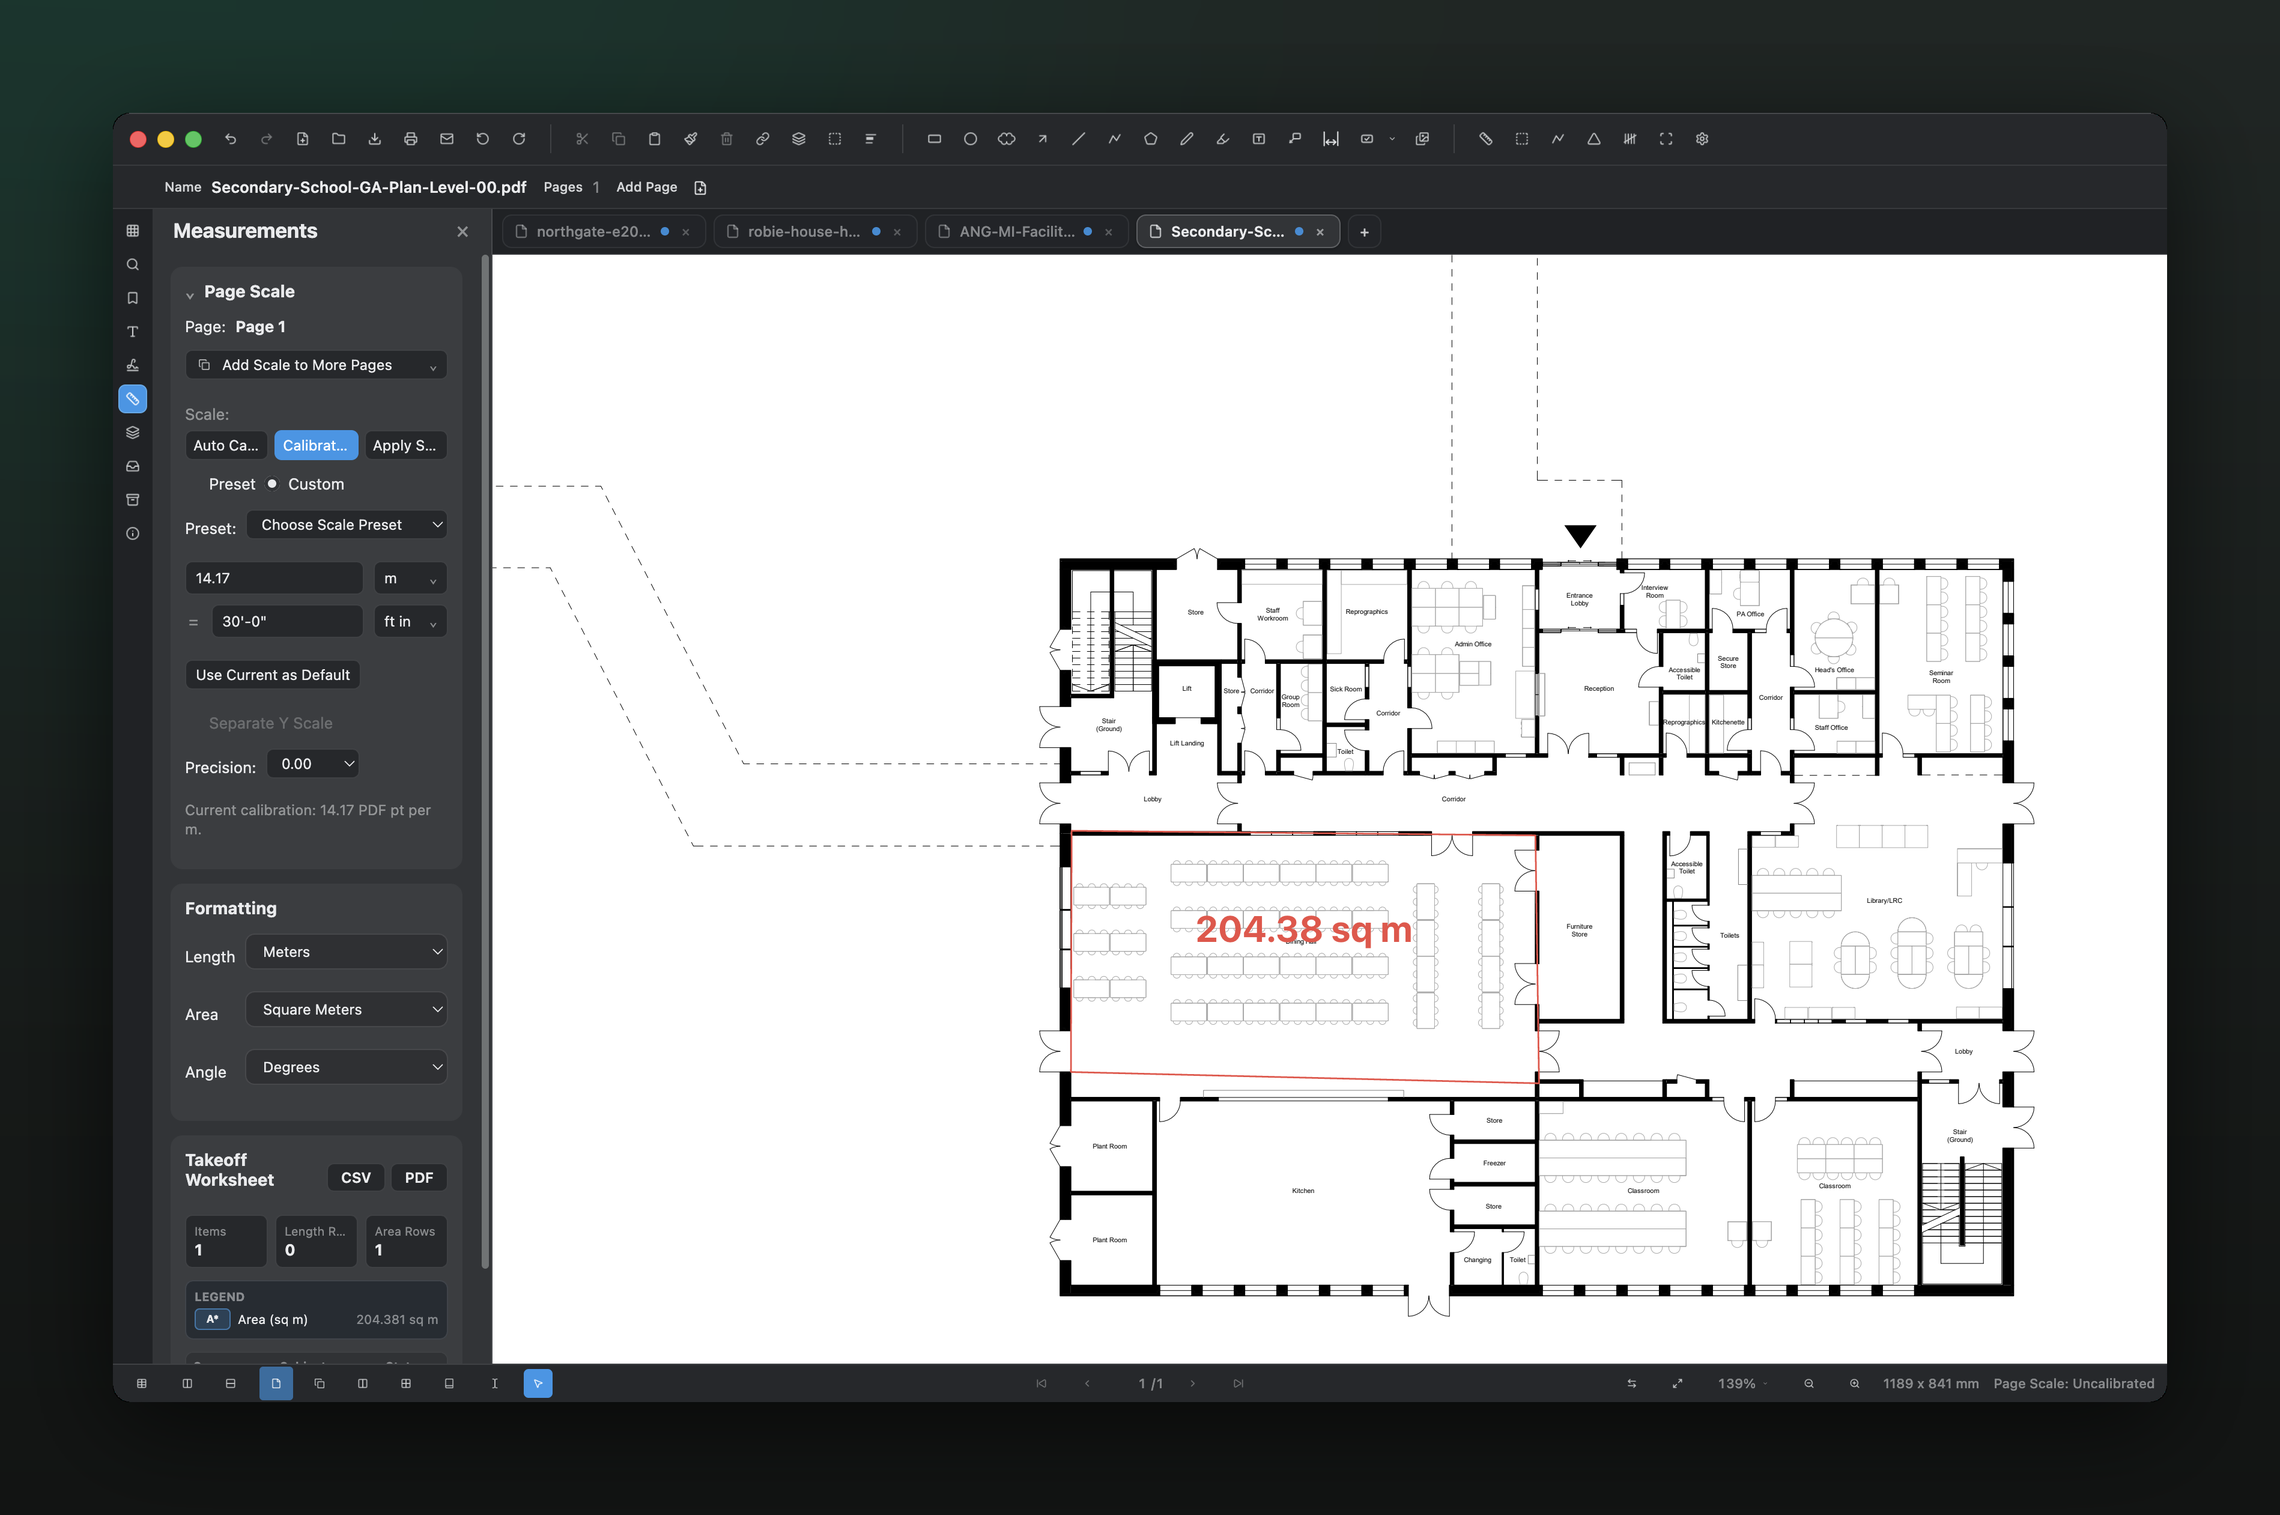
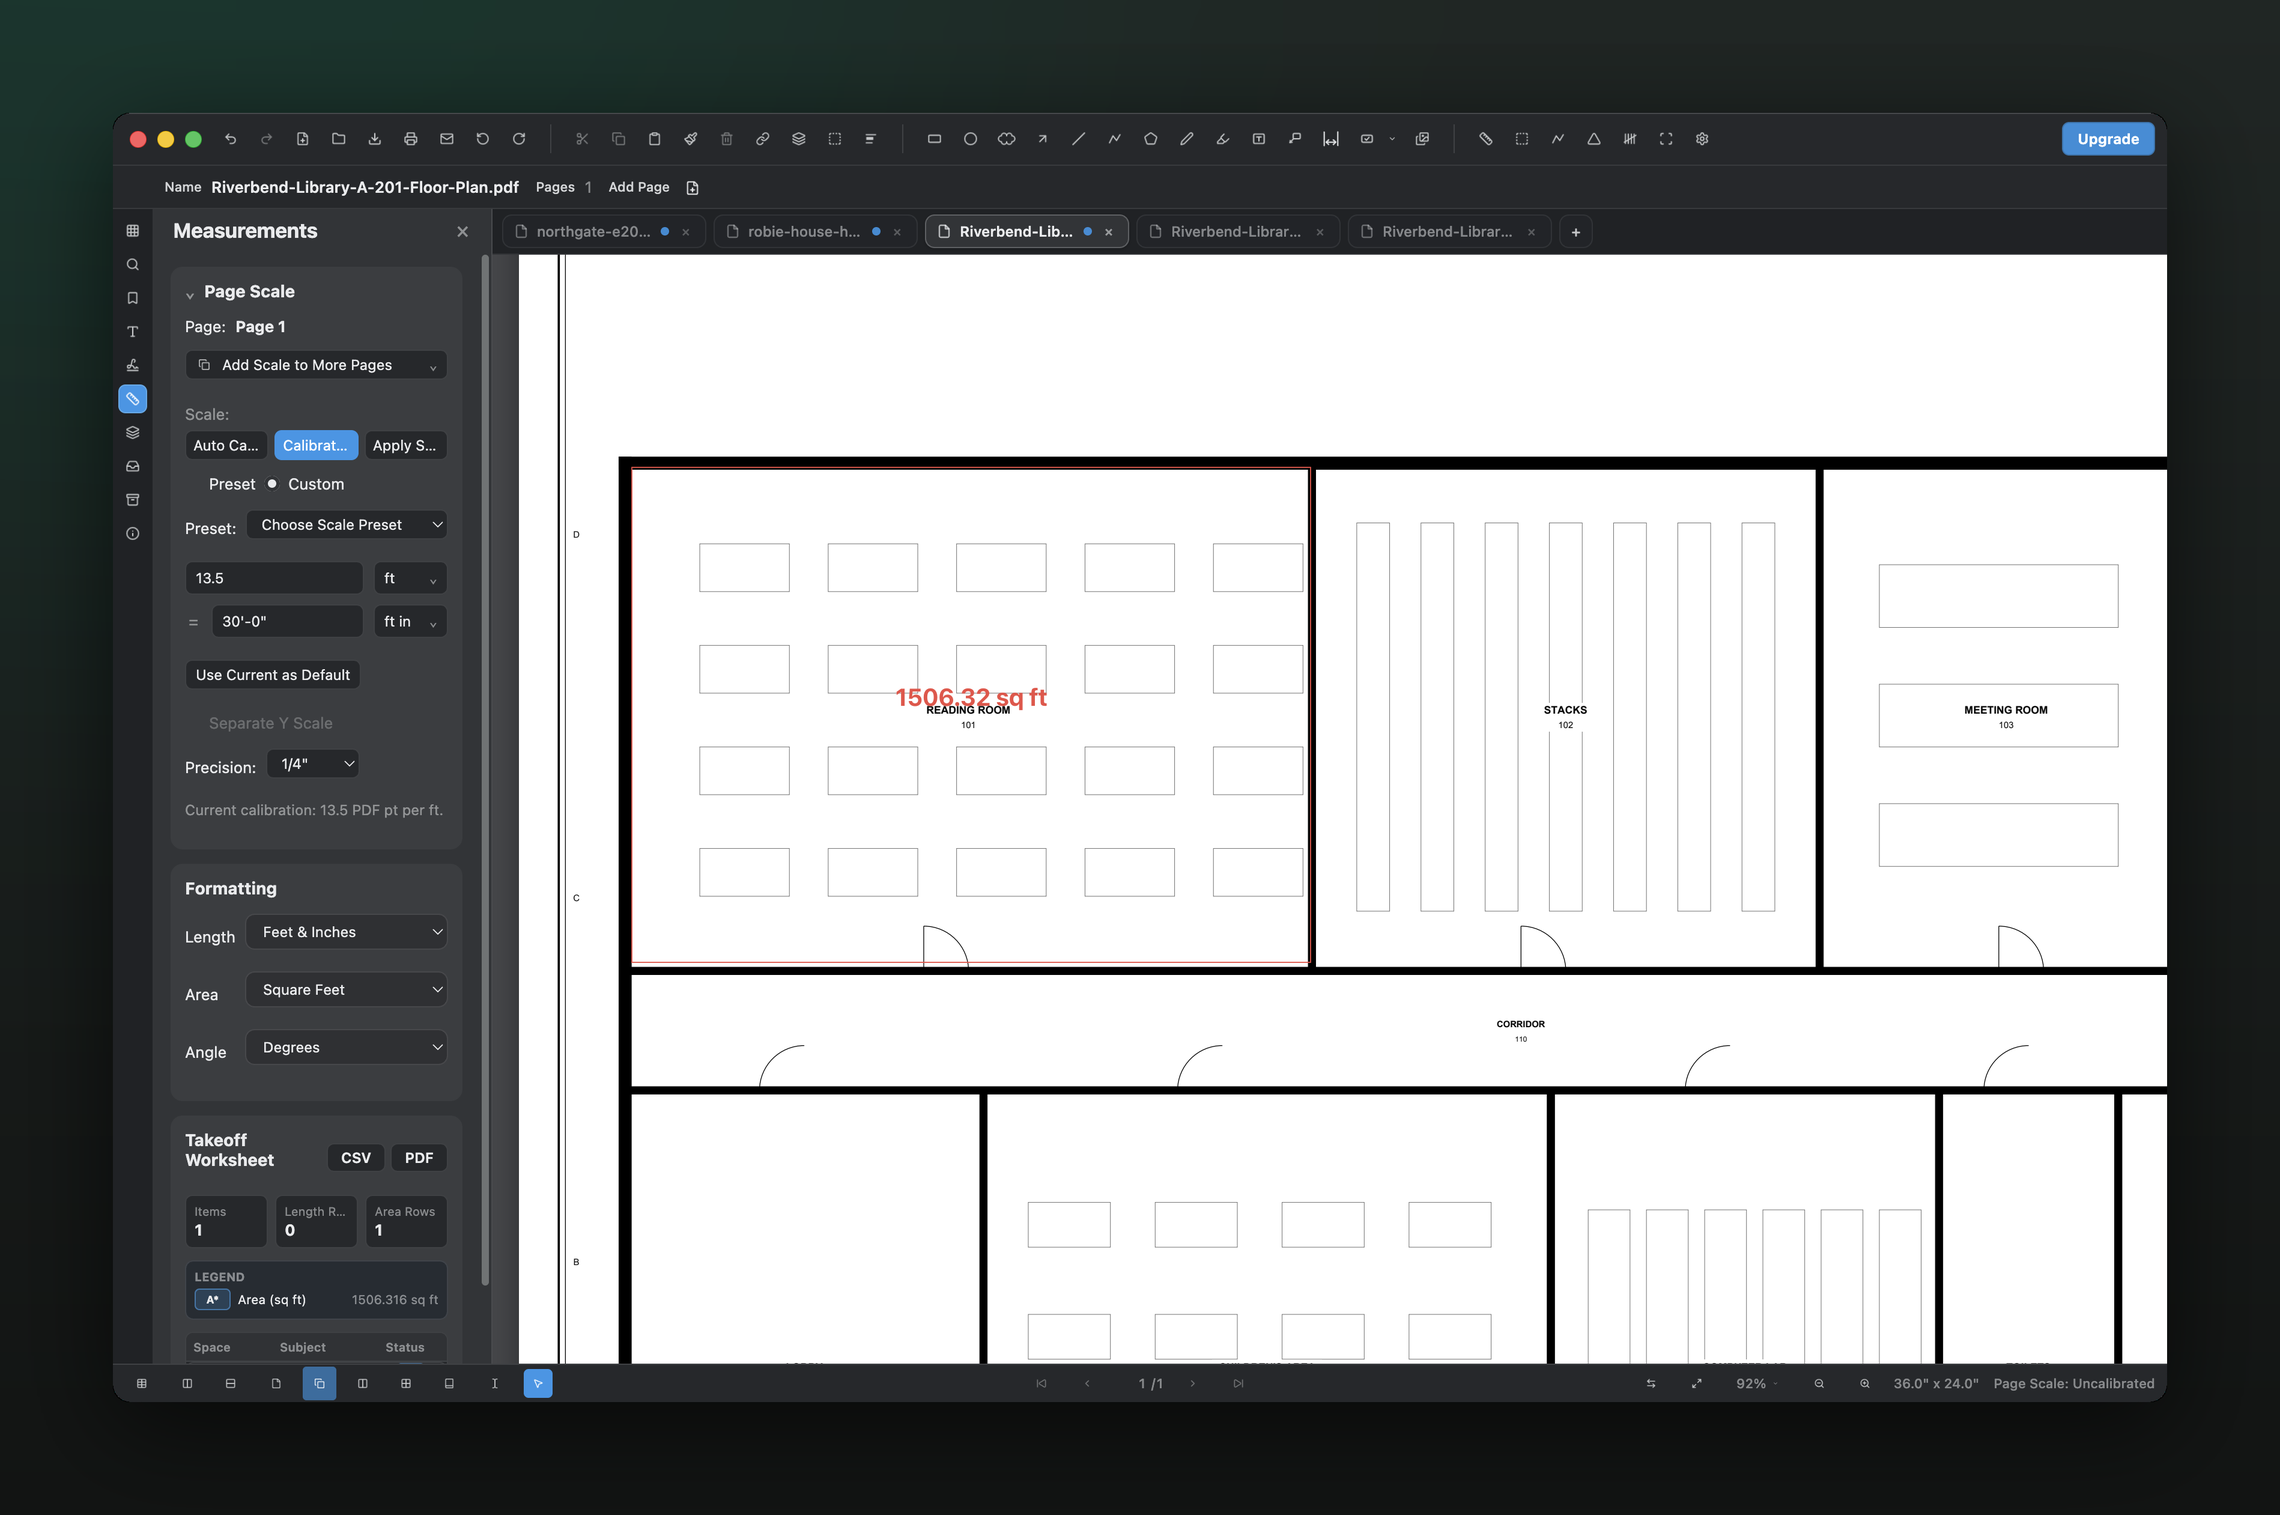
Showcase: shoot on our own sample drawings, drop all third-party credit
Every outside drawing set carried a string. The two federal sets were
defence projects - an Air National Guard facility and a Navy fuel pier -
and the UK school plan was Crown copyright under the Open Government
Licence, which made an attribution line and a link to the licence a
condition of use rather than a courtesy.

Replaced all three with a sample set we own outright: three ARCH-D sheets
of one fictional project, the Riverbend Community Library, generated by
scripts/gen_sample_set.py as vector PDFs.

  A-201  architectural  first floor plan, with a room schedule
  E-101  electrical     lighting plan, 109 fixtures on a regular module
  M-101  mechanical     HVAC plan, ducted from an AHU with VAV branches

The title block names PolyPDF as issuer and marks the sheets as a sample
of a fictional project, so nothing can be mistaken for a real building or
another firm's work. Consequences: no credit lines to carry, no agency
logos or security markings to crop around, no licence to honour, and the
sheets can be redrawn whenever the UI changes.

The room schedule prints clear-area figures derived from the same geometry
the plan is drawn from, so a measurement can be checked against the sheet.
Tracing the reading room by hand returns 1,506 sq ft against the 1,511
printed in the schedule - 0.3% on a hand trace.

Also fixed a real mobile bug found while verifying: the showcase row
images animate in from a horizontal offset that, on a 390px viewport, was
[…]

diff --git a/src/components/Home.js b/src/components/Home.js
@@ -22,42 +22,28 @@ import shotCountCommitted from '../assets/screenshots/shot-count-committed-web.p
 import shotMeasureTakeoff from '../assets/screenshots/shot-measure-takeoff-web.png';
 import shotMarkup from '../assets/screenshots/shot-markup-web.png';
 
-// Real captures of PolyPDF 1.1.3 in dark mode. Each shot works on a DIFFERENT published drawing
-// set and a different discipline — electrical, architectural, mechanical — so each carries its own
-// credit. Attribution belongs to the individual sheet, not to the section.
+// Real captures of PolyPDF 1.1.3 in dark mode, working on PolyPDF's own sample drawing set — three
+// sheets of one fictional project, drawn by scripts/gen_sample_set.py and owned outright.
 //
-// Licence note: the two US federal sets are public domain under 17 U.S.C. 105. The UK school plan
-// is NOT public domain — it is Crown copyright released under the Open Government Licence v3.0,
-// which makes the attribution statement AND a link to the licence a condition of use, so that
-// credit must stay next to the image wherever it appears.
-const OGL_HREF = 'https://www.nationalarchives.gov.uk/doc/open-government-licence/version/3/';
-
+// This replaced three outside drawing sets. Two were defence projects and the third was Crown
+// copyright under the Open Government Licence, which made an attribution line and a licence link a
+// condition of use. Owning the artwork removes all of that: no credits to carry, no agency marks to
+// crop, and the sheets can be redrawn whenever the UI changes.
 const screenshots = [
   {
     image: shotCountCommitted,
-    title: 'Count the fixtures, keep the tally on the drawing',
-    caption: 'Seven light fixtures counted across the maintenance bay, each mark landing on the symbol it belongs to. The takeoff worksheet on the left holds one row per item and a running legend — 7 count beside 1,244.07 sq ft of area — and exports to CSV or PDF.',
-    source:
-      'Sheet E-102, Air National Guard Maintenance & Inspection Facility Standard Design, 23 October 2024 — a work of the US federal government, public domain.'
+    title: 'Counts that keep score for you',
+    caption: 'Drop a marker on each symbol and the takeoff worksheet keeps a running tally per subject, right beside your areas and lengths. Number the marks as you go, then export the whole worksheet to CSV or PDF when it is time to price the job.'
   },
   {
     image: shotMeasureTakeoff,
-    title: 'Area takeoff on a 1:200 school plan',
-    caption: 'The dining hall of a ground-floor general arrangement plan, traced with the Area tool and reading 204.38 m² with the kitchen and library beside it. The page is calibrated to the 1:200 scale printed on the sheet — 14.17 PDF points per metre — so the figure comes from the drawing, not a guess.',
-    source: (
-      <>
-        Secondary school general arrangement plan, level 00, revision C01, 12 January 2026. Contains
-        public sector information licensed under the{' '}
-        <a href={OGL_HREF} target="_blank" rel="noopener noreferrer">Open Government Licence v3.0</a>.
-      </>
-    )
+    title: 'Real units from the PDF you were sent',
+    caption: 'Calibrate to the printed scale once — presets for the common architectural scales, or dial in your own, metric or imperial — then pull areas, lengths and perimeters that land directly on the drawing. No CAD file, no re-drawing, no math on a notepad.'
   },
   {
     image: shotMarkup,
-    title: 'Cloud and callout on a piping plan',
-    caption: 'A revision cloud around one stripping-pump bay of a marine fuel pier enlarged plan, with an RFI callout leadering back to the pump discharge it questions. Set at 22pt so the note still reads once the sheet is printed.',
-    source:
-      'Sheet M-102, Fuel Pier drawings 10009724–10009734, US Department of Defense, November 2020 — a work of the US federal government, public domain.'
+    title: 'Reviews and RFIs, straight on the sheet',
+    caption: 'Revision clouds, leader callouts, stamps and highlights, with text sizing you control — so a note that reads on screen still reads on a printed half-size set. Every markup is tracked in the markups list, so nothing you flag gets lost between review rounds.'
   }
 ];
 
@@ -310,7 +296,7 @@ const Home = () => {
             viewport={{ once: true }}
           >
             <h2>See it on a real sheet</h2>
-            <p>Three drawing sets, three disciplines — electrical, architectural, mechanical — captured from the shipping app rather than mocked up. Each sheet is a published drawing credited under its own shot; crediting a source does not mean it endorses PolyPDF.</p>
+            <p>Counting, measuring and drawing review — the work you actually do all day — across three disciplines of one project. Captured from the shipping app, not mocked up.</p>
           </motion.div>
 
           {/* Lead shot gets the full-width stage; the rest alternate text/image so the section
@@ -328,7 +314,6 @@ const Home = () => {
             <figcaption>
               <h3>{screenshots[0].title}</h3>
               <p>{screenshots[0].caption}</p>
-              <p className="shot-source">{screenshots[0].source}</p>
             </figcaption>
           </motion.figure>
 
@@ -346,7 +331,6 @@ const Home = () => {
                   <span className="showcase-index">0{index + 2}</span>
                   <h3>{shot.title}</h3>
                   <p>{shot.caption}</p>
-                  <p className="shot-source">{shot.source}</p>
                 </figcaption>
                 <motion.div
                   className="shot-plate"

diff --git a/src/App.css b/src/App.css
@@ -1235,6 +1235,13 @@ body {
   gap: 72px;
 }
 
+/* The row images slide in from a horizontal offset. On a phone that offset is wider than the
+   margin beside them, so mid-animation it pushed the document ~8px wide and the whole page could
+   be scrolled sideways. Clip (not hidden) contains it without creating a scroll container. */
+.showcase {
+  overflow-x: clip;
+}
+
 .showcase-row {
   display: grid;
   grid-template-columns: minmax(240px, 5fr) 12fr;
@@ -1375,29 +1382,6 @@ body {
   color: var(--gray-500);
 }
 
-/* Each shot now sits on a different drawing set, so the public-domain credit belongs to the
-   individual screenshot rather than to the section as a whole. Kept deliberately quiet — it is
-   attribution, not a selling point. */
-.shot-source {
-  margin-top: 10px;
-  font-size: 0.78rem;
-  line-height: 1.45;
-  color: var(--gray-500);
-  text-wrap: pretty;
-}
-
-/* The Open Government Licence credit has to carry a working link to the licence, so the anchor
-   stays legible without turning the credit into a call to action. */
-.shot-source a {
-  color: inherit;
-  text-decoration: underline;
-  text-underline-offset: 2px;
-}
-
-.shot-source a:hover,
-.shot-source a:focus-visible {
-  color: var(--gray-700);
-}
 
 /* The beautified captures already carry the window chrome, rounded corners, shadow and gradient
    stage (baked in by scripts/beautify.py at 2x), so the page must NOT re-frame them — it just
